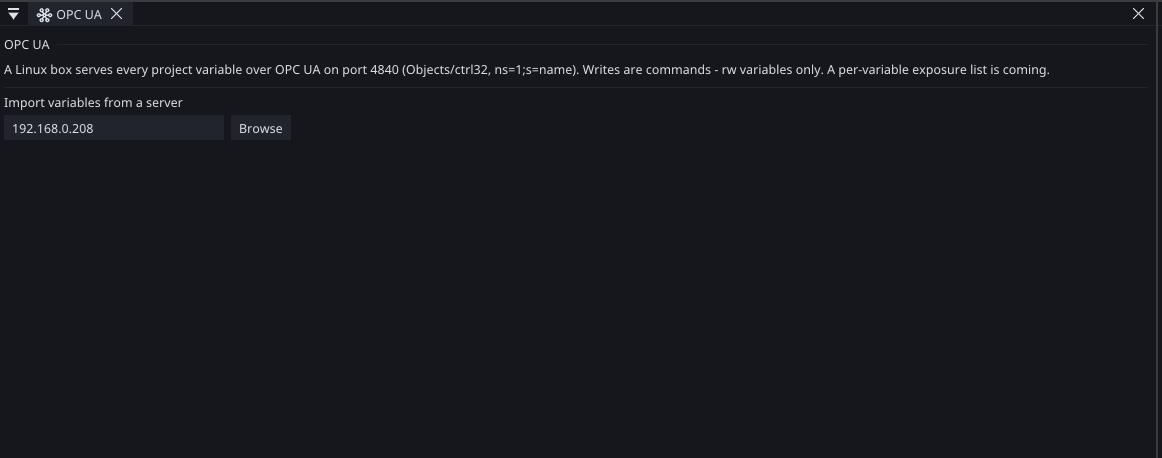
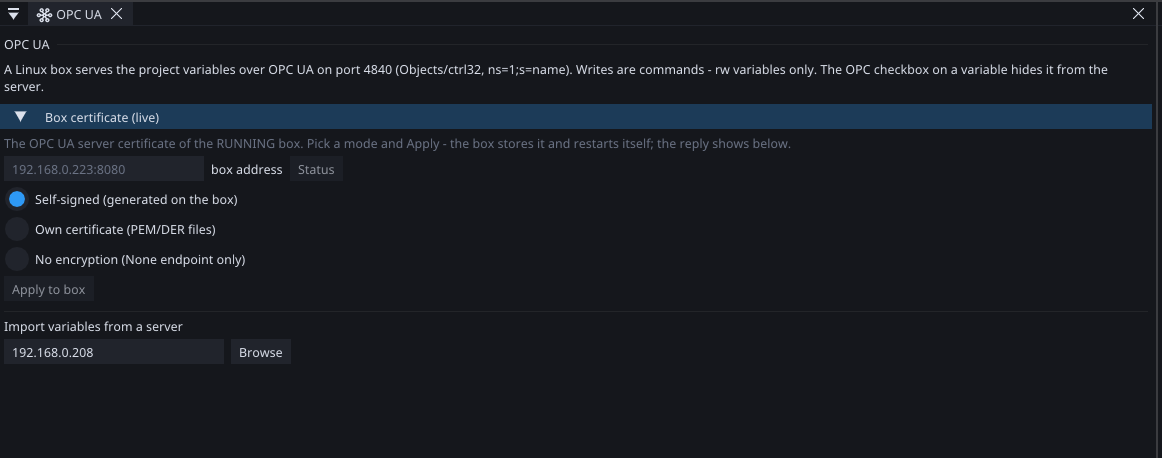
linux-boxes: the box certificate has three modes on the OPC UA page

diff --git a/docs/linux-boxes.md b/docs/linux-boxes.md
@@ -85,10 +85,20 @@ outputs.
 
 The connection can be **encrypted**: beside the open endpoint the
 box offers Basic256Sha256 (and Aes128/Aes256) sign-and-encrypt
-endpoints, using a certificate it issues itself at first start —
-trust it once in your client, the way a network printer's is
-trusted. A variable can also be kept **off the server** entirely:
-untick *OPC UA server* on the variable and it simply is not there —
+endpoints. The certificate is chosen on the OPC UA page, in **Box
+certificate** — three modes, applied to the running box with one
+button:
+
+- **Self-signed** (the default): the box issues its own ten-year
+  certificate at first start — trust it once in your client, the
+  way a network printer's is trusted.
+- **Own certificate**: pick a PEM or DER certificate and key from
+  your company's PKI; the box checks that both parse before it
+  replaces anything.
+- **No encryption**: only the open endpoint remains.
+
+A variable can also be kept **off the server** entirely: untick
+*OPC UA server* on the variable and it simply is not there —
 internals stay internal without touching access rights.
 
 ## …and read from another server

diff --git a/docs/widgets.md b/docs/widgets.md
@@ -2,7 +2,7 @@
 
 # Widgets
 
-Schema version: **33** — the vocabulary of the project file. The compiled pack carries its own format number; error messages name whichever one they mean.
+Schema version: **34** — the vocabulary of the project file. The compiled pack carries its own format number; error messages name whichever one they mean.
 
 ## Common properties (widget_base)
 
